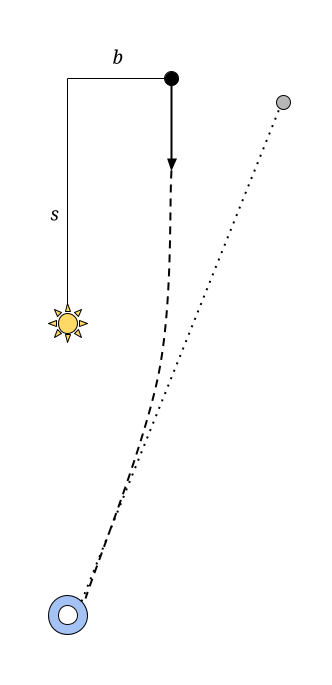
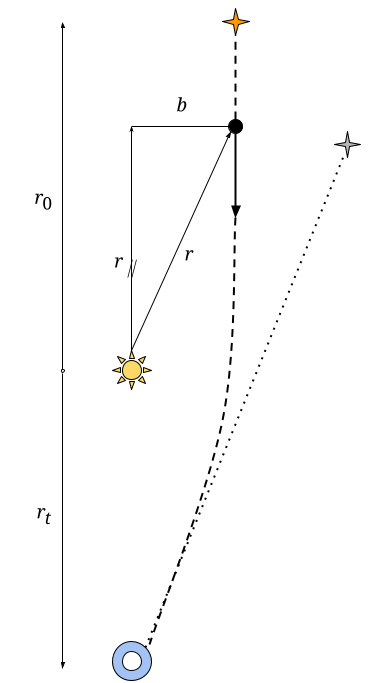
done

diff --git a/_posts/2024-04-01-eclipse-posting-eddington.md b/_posts/2024-04-01-eclipse-posting-eddington.md
@@ -1,0 +1,96 @@
+---
+layout: post
+title:  "The Math behind the Eddington Expedition"
+date:   2024-04-01 00:00:00 -0500
+categories: eclipse
+use_math: true
+tags: eclipse math
+---
+
+*In celebration of the upcoming eclipse crossing North America on April 8th, I'll be posting one eclipse-related post per day. Today's post is about the 1919 Eddington Expedition and the math behind the theoretical light deflections that were being measured.*
+
+In 1919, English astronomer Sir Arthur Eddington embarked on a journey to the island Príncipe off the west coast of Africa in order to witness a total solar eclipse. His goal? To test a novel theory put forth by a certain German physicist a few years earlier: general relativity.
+
+
+<!--more-->
+
+General relativity predicts that light passing a large mass is deflected due to the way the mass curves spacetime. If you were able to measure the relative positions of stars at night versus the day, you would expect to see differences due to the lensing of the stars’ light as it passes by the sun.
+
+The problem is that you can’t see any stars during the day—the sun’s light drowns everything else out. Except of course during a total solar eclipse, when the moon blocks all light from the sun beyond its faint corona, plunging the part of the Earth in the moon’s shadow into darkness.
+
+The solar eclipse taking place on May 29th, 1919 was a particularly long one, lasting almost 7 minutes at the point of maximum totality; it was visible along a narrow band passing through most of Africa and South America. Furthermore, during totality the sun would pass in front of a particularly bright star cluster—the [Hyades](https://en.wikipedia.org/wiki/Hyades_(star_cluster))—which would allow the expedition to measure the deflection of multiple visible stars.
+
+Eddington organized two expeditions, one to Príncipe and one to the town of [Sobral](https://en.wikipedia.org/wiki/Sobral,_Cear%C3%A1) in Brazil to maximize the chance of getting useful data from the event. The photographic plates obtained by the back-up telescope in Sobral proved the most clear, displaying a deflection corresponding to Einstein’s predictions. Below is an image of one of the Sobral plates; you can see a few of the deflected stars annotated with horizontal lines on either side:
+
+![plate](/e/assets/eddington/plate.jpeg){: .center-image }
+
+The results of the experiment were published at a joint session of the Royal Society and Royal Astronomical Society on November 6th, 1919. There was intense press fanfare surrounding the report, and this experiment is generally credited with launching Einstein—who was well-known only within the physics community at the time—into superstardom.
+
+## Newtonian Deflection
+
+When I first learned about the Eddington expedition I was puzzled by the mention that general relativity predicts an angular deflection of *twice* the magnitude of the deflection under classical physics. Why would light be deflected at all under Newtonian mechanics and how could you calculate the deflection?
+
+I'll explain the derivation in this section—you'll need only knowledge of classical mechanics and a little calculus to follow.
+
+Imagine a particle of light with mass \\(m\\) that is traveling past a much more massive body (the sun) with mass \\(M\\) positioned at the origin. The force that the particle experiences is:
+
+\\[\vec{F} = \frac{GMm}{r^2} \hat{r} = m\vec{a}\\]
+
+(Yes, photons are massless, but Newton didn't know that. Regardless, you can see that \\(m\\) cancels in the above equation, so you can consider the limit of the above scenario as \\(m\\) approaches 0.) Suppose that the perpendicular component of the displacement from the particle to the sun is \\(b\\) and the parallel displacement is \\(r_{\parallel}\\). We’ll assume that \\(b\\) stays approximately the same throughout the path of the particle, but that \\(r_{\parallel}\\) varies.
+
+<svg version="1.1" width="50%" viewBox="0.0 0.0 391.9501312335958 685.6351706036745" fill="none" stroke="none" stroke-linecap="square" stroke-miterlimit="10" xmlns:xlink="http://www.w3.org/1999/xlink" xmlns="http://www.w3.org/2000/svg"><clipPath id="p.0"><path d="m0 0l391.95013 0l0 685.6352l-391.95013 0l0 -685.6352z" clip-rule="nonzero"/></clipPath><g clip-path="url(#p.0)"><path fill="#000000" fill-opacity="0.0" d="m0 0l391.95013 0l0 685.6352l-391.95013 0z" fill-rule="evenodd"/><path fill="#000000" fill-opacity="0.0" d="m97.50656 216.67192l62.551178 0l0 53.00786l-62.551178 0z" fill-rule="evenodd"/><path fill="#000000" d="m121.19406 228.62192l-4.609375 18.046875l-0.78125 0l4.609375 -18.046875l0.78125 0zm-4.0625 0l-4.609375 18.046875l-0.78125 0l4.609375 -18.046875l0.78125 0z" fill-rule="nonzero"/><path fill="#ffd966" d="m151.89764 371.48557l-7.9564514 2.8294983l0 -5.6589966zm-5.7762146 -13.942139l-3.6242676 7.627533l-4.001465 -4.001465zm-13.940323 -5.7743835l2.8294983 7.956421l-5.6589966 0zm-13.942154 5.7743835l7.627556 3.626068l-4.001457 4.001465zm-5.7743835 13.942139l7.956436 -2.8294983l0 5.6589966zm5.7743835 13.940308l3.6260986 -7.625702l4.001457 4.0014343zm13.942154 5.7762146l-2.8294983 -7.956421l5.6589966 0zm13.940323 -5.7762146l-7.6257324 -3.6242676l4.001465 -4.0014343zm-23.798592 -13.940308l0 0c0 -5.44458 4.4136963 -9.858276 9.858269 -9.858276c5.444565 0 9.858261 4.4136963 9.858261 9.858276c0 5.44458 -4.4136963 9.858276 -9.858261 9.858276c-5.4445724 0 -9.858269 -4.4136963 -9.858269 -9.858276z" fill-rule="evenodd"/><path stroke="#000000" stroke-width="1.0" stroke-linejoin="round" stroke-linecap="butt" d="m151.89764 371.48557l-7.9564514 2.8294983l0 -5.6589966zm-5.7762146 -13.942139l-3.6242676 7.627533l-4.001465 -4.001465zm-13.940323 -5.7743835l2.8294983 7.956421l-5.6589966 0zm-13.942154 5.7743835l7.627556 3.626068l-4.001457 4.001465zm-5.7743835 13.942139l7.956436 -2.8294983l0 5.6589966zm5.7743835 13.940308l3.6260986 -7.625702l4.001457 4.0014343zm13.942154 5.7762146l-2.8294983 -7.956421l5.6589966 0zm13.940323 -5.7762146l-7.6257324 -3.6242676l4.001465 -4.0014343zm-23.798592 -13.940308l0 0c0 -5.44458 4.4136963 -9.858276 9.858269 -9.858276c5.444565 0 9.858261 4.4136963 9.858261 9.858276c0 5.44458 -4.4136963 9.858276 -9.858261 9.858276c-5.4445724 0 -9.858269 -4.4136963 -9.858269 -9.858276z" fill-rule="evenodd"/><path fill="#000000" d="m229.44907 126.845146l0 0c0 -3.8442535 3.1163788 -6.9606323 6.9606323 -6.9606323l0 0c1.8460693 0 3.6165314 0.73335266 4.9219055 2.0387192c1.3053741 1.3053741 2.0387268 3.0758362 2.0387268 4.921913l0 0c0 3.844246 -3.116394 6.9606247 -6.9606323 6.9606247l0 0c-3.8442535 0 -6.9606323 -3.1163788 -6.9606323 -6.9606247z" fill-rule="evenodd"/><path stroke="#000000" stroke-width="1.0" stroke-linejoin="round" stroke-linecap="butt" d="m229.44907 126.845146l0 0c0 -3.8442535 3.1163788 -6.9606323 6.9606323 -6.9606323l0 0c1.8460693 0 3.6165314 0.73335266 4.9219055 2.0387192c1.3053741 1.3053741 2.0387268 3.0758362 2.0387268 4.921913l0 0c0 3.844246 -3.116394 6.9606247 -6.9606323 6.9606247l0 0c-3.8442535 0 -6.9606323 -3.1163788 -6.9606323 -6.9606247z" fill-rule="evenodd"/><path fill="#000000" fill-opacity="0.0" d="m236.4097 133.80577l0 85.79527" fill-rule="evenodd"/><path stroke="#000000" stroke-width="2.0" stroke-linejoin="round" stroke-linecap="butt" d="m236.4097 133.80577l0 73.79527" fill-rule="evenodd"/><path fill="#000000" stroke="#000000" stroke-width="2.0" stroke-linecap="butt" d="m233.10623 207.60104l3.3034668 9.076202l3.3034668 -9.076202z" fill-rule="evenodd"/><path fill="#a4c2f4" d="m112.46457 663.6588l0 0c0 -10.88916 8.827393 -19.716553 19.716537 -19.716553l0 0c5.229141 0 10.244125 2.0772705 13.941696 5.7748413c3.6975708 3.6975708 5.7748413 8.712524 5.7748413 13.941711l0 0c0 10.889099 -8.827393 19.716492 -19.716537 19.716492l0 0c-10.889145 0 -19.716537 -8.827393 -19.716537 -19.716492zm9.858269 0l0 0c0 5.44458 4.4136963 9.858276 9.858269 9.858276c5.444565 0 9.858261 -4.4136963 9.858261 -9.858276c0 -5.44458 -4.4136963 -9.858276 -9.858261 -9.858276l0 0c-5.4445724 0 -9.858269 4.4136963 -9.858269 9.858276z" fill-rule="evenodd"/><path stroke="#000000" stroke-width="1.0" stroke-linejoin="round" stroke-linecap="butt" d="m112.46457 663.6588l0 0c0 -10.88916 8.827393 -19.716553 19.716537 -19.716553l0 0c5.229141 0 10.244125 2.0772705 13.941696 5.7748413c3.6975708 3.6975708 5.7748413 8.712524 5.7748413 13.941711l0 0c0 10.889099 -8.827393 19.716492 -19.716537 19.716492l0 0c-10.889145 0 -19.716537 -8.827393 -19.716537 -19.716492zm9.858269 0l0 0c0 5.44458 4.4136963 9.858276 9.858269 9.858276c5.444565 0 9.858261 -4.4136963 9.858261 -9.858276c0 -5.44458 -4.4136963 -9.858276 -9.858261 -9.858276l0 0c-5.4445724 0 -9.858269 4.4136963 -9.858269 9.858276z" fill-rule="evenodd"/><path fill="#000000" fill-opacity="0.0" d="m146.1228 649.7171l198.2362 -492.72443" fill-rule="evenodd"/><path stroke="#000000" stroke-width="2.0" stroke-linejoin="round" stroke-linecap="butt" stroke-dasharray="2.0,6.0" d="m146.1228 649.7171l198.2362 -492.72443" fill-rule="evenodd"/><path fill="#000000" fill-opacity="0.0" d="m236.52231 218.4357c-2.3188934 34.009613 0.57962036 132.56036 -13.913391 204.05774c-14.492996 71.497375 -60.870514 187.43875 -73.04462 224.92648" fill-rule="evenodd"/><path stroke="#000000" stroke-width="2.0" stroke-linejoin="round" stroke-linecap="butt" stroke-dasharray="8.0,6.0" d="m236.52231 218.4357c-2.3188934 34.009613 0.57962036 132.56036 -13.913391 204.05774c-14.492996 71.497375 -60.870514 187.43875 -73.04462 224.92648" fill-rule="evenodd"/><path fill="#000000" fill-opacity="0.0" d="m132.1811 351.76904l0 -225.25986" fill-rule="evenodd"/><path stroke="#000000" stroke-width="1.0" stroke-linejoin="round" stroke-linecap="butt" d="m132.1811 351.76904l0 -221.83278" fill-rule="evenodd"/><path fill="#000000" stroke="#000000" stroke-width="1.0" stroke-linecap="butt" d="m132.1811 129.93628l1.1245728 1.1245728l-1.1245728 -3.0897598l-1.124588 3.0897598z" fill-rule="evenodd"/><path fill="#000000" fill-opacity="0.0" d="m89.50656 209.62204l26.677162 0l0 42.015762l-26.677162 0z" fill-rule="evenodd"/><path fill="#000000" d="m105.78781 229.05766q0 -1.46875 -0.75 -1.46875q-0.859375 0 -1.84375 1.703125q-0.96875 1.703125 -1.421875 3.859375l-0.703125 3.390625l-1.75 0l1.578125 -7.5q0.109375 -0.515625 0.109375 -0.828125q0 -0.890625 -1.484375 -0.890625l-0.15625 0l0.171875 -0.78125l3.296875 0l-0.390625 2.6875l0.1875 0q0.75 -1.671875 1.46875 -2.265625q0.734375 -0.609375 1.703125 -0.609375q1.53125 0 1.53125 1.28125q0 1.421875 -1.546875 1.421875z" fill-rule="nonzero"/><path fill="#000000" fill-opacity="0.0" d="m229.44907 126.845146l-97.6378 0" fill-rule="evenodd"/><path stroke="#000000" stroke-width="1.0" stroke-linejoin="round" stroke-linecap="butt" d="m229.44907 126.845146l-97.6378 0" fill-rule="evenodd"/><path fill="#000000" fill-opacity="0.0" d="m168.04724 84.8294l26.67717 0l0 42.015747l-26.67717 0z" fill-rule="evenodd"/><path fill="#000000" d="m178.98474 111.26502l-0.828125 0.53125l-0.609375 0l2.46875 -11.578125q0.171875 -0.765625 0.171875 -0.984375q0 -0.875 -1.3125 -0.875l-0.15625 0l0.171875 -0.78125l3.53125 0l-0.890625 4.1875q-0.1875 0.90625 -0.671875 2.46875l0.09375 0q1.375 -2.671875 3.40625 -2.671875q1.109375 0 1.734375 0.859375q0.640625 0.859375 0.640625 2.515625q0 2.59375 -1.609375 4.796875q-1.59375 2.203125 -3.953125 2.203125q-1.34375 0 -2.1875 -0.671875zm0.65625 -0.84375q0.5625 0.671875 1.453125 0.671875q1.625 0 2.671875 -2.0625q1.0625 -2.078125 1.0625 -4.109375q0 -2.1875 -1.171875 -2.1875q-1.03125 0 -2.0 1.421875q-0.96875 1.421875 -1.21875 2.578125l-0.796875 3.6875z" fill-rule="nonzero"/><path fill="#000000" fill-opacity="0.0" d="m132.1811 351.76904l99.30708 -220.00002" fill-rule="evenodd"/><path stroke="#000000" stroke-width="1.0" stroke-linejoin="round" stroke-linecap="butt" d="m132.1811 351.76904l96.83856 -214.53134" fill-rule="evenodd"/><path fill="#000000" stroke="#000000" stroke-width="1.0" stroke-linecap="butt" d="m230.52512 137.91725l0.36161804 -4.8157806l-3.3725433 3.456665z" fill-rule="evenodd"/><path fill="#000000" fill-opacity="0.0" d="m176.05774 234.43832l26.67717 0l0 42.015747l-26.67717 0z" fill-rule="evenodd"/><path fill="#000000" d="m192.33899 253.87395q0 -1.46875 -0.75 -1.46875q-0.859375 0 -1.84375 1.703125q-0.96875 1.703125 -1.421875 3.8593597l-0.703125 3.390625l-1.75 0l1.578125 -7.4999847q0.109375 -0.515625 0.109375 -0.828125q0 -0.890625 -1.484375 -0.890625l-0.15625 0l0.171875 -0.78125l3.296875 0l-0.390625 2.6875l0.1875 0q0.75 -1.671875 1.46875 -2.265625q0.734375 -0.609375 1.703125 -0.609375q1.53125 0 1.53125 1.28125q0 1.421875 -1.546875 1.421875z" fill-rule="nonzero"/><path fill="#ff9900" d="m223.07014 21.91601l10.980621 -2.3579502l2.357956 -10.980632l2.357956 10.980632l10.980621 2.3579502l-10.980621 2.3579502l-2.357956 10.980633l-2.357956 -10.980633z" fill-rule="evenodd"/><path stroke="#000000" stroke-width="1.0" stroke-linejoin="round" stroke-linecap="butt" d="m223.07014 21.91601l10.980621 -2.3579502l2.357956 -10.980632l2.357956 10.980632l10.980621 2.3579502l-10.980621 2.3579502l-2.357956 10.980633l-2.357956 -10.980633z" fill-rule="evenodd"/><path fill="#000000" fill-opacity="0.0" d="m236.4097 119.884514l0 -84.62992" fill-rule="evenodd"/><path stroke="#000000" stroke-width="2.0" stroke-linejoin="round" stroke-linecap="butt" stroke-dasharray="8.0,6.0" d="m236.4097 119.884514l0 -84.62992" fill-rule="evenodd"/><path fill="#b7b7b7" d="m335.12524 145.1076l10.980652 -2.3579407l2.3579407 -10.980637l2.3579407 10.980637l10.980652 2.3579407l-10.980652 2.357956l-2.3579407 10.980637l-2.3579407 -10.980637z" fill-rule="evenodd"/><path stroke="#000000" stroke-width="1.0" stroke-linejoin="round" stroke-linecap="butt" d="m335.12524 145.1076l10.980652 -2.3579407l2.3579407 -10.980637l2.3579407 10.980637l10.980652 2.3579407l-10.980652 2.357956l-2.3579407 10.980637l-2.3579407 -10.980637z" fill-rule="evenodd"/><path fill="#000000" fill-opacity="0.0" d="m63.07014 21.91601l0 352.37796" fill-rule="evenodd"/><path stroke="#000000" stroke-width="1.0" stroke-linejoin="round" stroke-linecap="butt" d="m63.070137 27.91601l0 342.58795" fill-rule="evenodd"/><path fill="#000000" stroke="#000000" stroke-width="1.0" stroke-linecap="butt" d="m64.72187 27.91601l-1.6517334 -4.5380974l-1.6517296 4.5380974z" fill-rule="evenodd"/><path stroke="#000000" stroke-width="1.0" stroke-linecap="butt" d="m63.070137 373.79398c-0.9085083 0 -1.6450005 -0.73651123 -1.6450005 -1.6450195c0 -0.9085083 0.73649216 -1.644989 1.6450005 -1.644989c0.9085083 0 1.6450043 0.7364807 1.6450043 1.644989c0 0.9085083 -0.736496 1.6450195 -1.6450043 1.6450195z" fill-rule="nonzero"/><path fill="#000000" fill-opacity="0.0" d="m62.93348 375.39804l0 295.9055" fill-rule="evenodd"/><path stroke="#000000" stroke-width="1.0" stroke-linejoin="round" stroke-linecap="butt" d="m62.93348 375.39804l0 289.90555" fill-rule="evenodd"/><path fill="#000000" stroke="#000000" stroke-width="1.0" stroke-linecap="butt" d="m61.28175 665.3036l1.6517296 4.538086l1.6517334 -4.538086z" fill-rule="evenodd"/><path fill="#000000" fill-opacity="0.0" d="m33.50656 184.67192l62.551178 0l0 53.007874l-62.551178 0z" fill-rule="evenodd"/><path fill="#000000" d="m51.41281 204.1088q0 1.4375 -0.25 2.609375q-0.25 1.171875 -0.765625 2.015625q-0.5 0.828125 -1.265625 1.296875q-0.75 0.453125 -1.78125 0.453125q-1.0625 0 -1.84375 -0.453125q-0.765625 -0.46875 -1.265625 -1.296875q-0.484375 -0.84375 -0.71875 -2.015625q-0.234375 -1.1875 -0.234375 -2.625q0 -1.4375 0.234375 -2.609375q0.234375 -1.171875 0.71875 -2.0q0.5 -0.828125 1.28125 -1.265625q0.78125 -0.453125 1.84375 -0.453125q1.015625 0 1.765625 0.453125q0.765625 0.4375 1.265625 1.265625q0.515625 0.828125 0.765625 2.0q0.25 1.171875 0.25 2.625zm-6.328125 0q0 1.28125 0.109375 2.296875q0.125 1.015625 0.390625 1.71875q0.265625 0.6875 0.703125 1.0625q0.4375 0.359375 1.0625 0.359375q0.640625 0 1.0625 -0.359375q0.4375 -0.375 0.703125 -1.0625q0.265625 -0.703125 0.375 -1.71875q0.125 -1.015625 0.125 -2.296875q0 -1.28125 -0.125 -2.28125q-0.109375 -1.015625 -0.375 -1.703125q-0.265625 -0.703125 -0.703125 -1.0625q-0.421875 -0.359375 -1.046875 -0.359375q-0.625 0 -1.0625 0.359375q-0.4375 0.359375 -0.71875 1.0625q-0.265625 0.6875 -0.390625 1.703125q-0.109375 1.0 -0.109375 2.28125z" fill-rule="nonzero"/><path fill="#000000" fill-opacity="0.0" d="m25.506561 177.62204l26.677166 0l0 42.015762l-26.677166 0z" fill-rule="evenodd"/><path fill="#000000" d="m41.78781 197.05766q0 -1.46875 -0.75 -1.46875q-0.859375 0 -1.84375 1.703125q-0.96875 1.703125 -1.421875 3.859375l-0.703125 3.390625l-1.75 0l1.578125 -7.5q0.109375 -0.515625 0.109375 -0.828125q0 -0.890625 -1.484375 -0.890625l-0.15625 0l0.171875 -0.78125l3.296875 0l-0.390625 2.6875l0.1875 0q0.75 -1.671875 1.46875 -2.265625q0.734375 -0.609375 1.703125 -0.609375q1.53125 0 1.53125 1.28125q0 1.421875 -1.546875 1.421875z" fill-rule="nonzero"/><path fill="#000000" fill-opacity="0.0" d="m35.695538 500.3727l62.55118 0l0 53.007843l-62.55118 0z" fill-rule="evenodd"/><path fill="#000000" d="m49.914288 524.7158l0.296875 0.640625q-1.171875 0.828125 -2.34375 0.828125q-1.890625 0 -1.890625 -2.03125q0 -0.640625 0.171875 -1.453125l1.0625 -4.984375l-1.328125 0l0.171875 -0.703125q1.6875 0 2.640625 -2.421875l0.796875 0l-0.453125 2.125l2.109375 0l-0.21875 1.0l-2.09375 0l-1.046875 4.9375q-0.21875 1.0 -0.21875 1.484375q0 0.953125 0.921875 0.953125q0.703125 0 1.421875 -0.375z" fill-rule="nonzero"/><path fill="#000000" fill-opacity="0.0" d="m27.695538 493.32285l26.677166 0l0 42.015717l-26.677166 0z" fill-rule="evenodd"/><path fill="#000000" d="m43.976788 512.7585q0 -1.4687805 -0.75 -1.4687805q-0.859375 0 -1.84375 1.7031555q-0.96875 1.703125 -1.421875 3.859375l-0.703125 3.390625l-1.75 0l1.578125 -7.5q0.109375 -0.515625 0.109375 -0.8281555q0 -0.890625 -1.484375 -0.890625l-0.15625 0l0.171875 -0.78125l3.296875 0l-0.390625 2.6875305l0.1875 0q0.75 -1.6719055 1.46875 -2.2656555q0.734375 -0.609375 1.703125 -0.609375q1.53125 0 1.53125 1.28125q0 1.4219055 -1.546875 1.4219055z" fill-rule="nonzero"/></g></svg>
+
+By the Pythagorean theorem \\(r^2 = r_{\parallel}^2 + b^2\\). We’ll further assume that \\(dr_{\parallel} = cdt\\) where \\(c\\) is the speed of light—in other words the particle moves at an unchanging speed \\(c\\) along the vector parallel to the sun. The change in speed of the particle along the perpendicular component is:
+
+\\[\Delta v_{\perp} = \int_{0}^{t'} \frac{GM}{b^2 + r_{\parallel}^2}dt = \int_{-r_0}^{r_{t'}} \frac{GM}{c(b^2 + r_{\parallel}^2)} dr_{\parallel}\\]
+
+Simplifying further:
+
+\\[\frac{GM}{b^2 c} \int_{--r_0}^{r_{t'}} \frac{dr_{\parallel}}{1 + (r_{\parallel}/b)^2} = \frac{GM}{b^2 c} \int_{-r_0/b}^{r_{t'}/b} \frac{bdu}{1 + u^2}\\]
+
+(note the \\(u\\)-substitution in the final step above). Now, recall that:
+
+\\[\int \frac{1}{1+x^2} = \tan^{-1} x\\]
+
+So:
+
+\\[\int_{-\infty}^{r_{t'}/b} \frac{dx}{1 + x^2} = \tan^{-1}(x) \Bigg\|_{-r_0/b}^{r_t/b} \\]
+
+Since \\(r_0\\)—the distance from the star to the sun—and \\(r_{t'}\\)—the distance from the earth to the sun—are so much more massive than \\(b\\) (which is some small multiple of sun's radius since we're picking stars that are visually near the eclipsed sun), we can approximate this as:
+
+\\[ \tan^{-1}(x) \Bigg\|_{-\infty}^{\infty} = 2 \\]
+
+
+Thus:
+
+\\[\Delta v_{\perp} =  \frac{2GM}{bc}\\]
+
+So the velocity vector goes from:
+
+\\[\langle 0,  c \rangle \rightarrow  \left \langle \frac{2GM}{bc}, c \right \rangle\\]
+
+The deflection angle relative to the starting trajectory is the arc-tangent of the ratio of the final velocity components:
+
+\\[\Delta \theta = \tan^{-1} \frac{2GM}{bc^2} \approx \frac{2GM}{bc^2} \\]
+
+## General Relativistic Deflection
+
+Under general relativity, light travels along *geodesics*—essentially “straight lines” in spacetime. Of course, spacetime itself can be curved by massive objects. The curvature is precisely defined by [Einstein’s field equations](https://en.wikipedia.org/wiki/Einstein_field_equations), but exact solutions are difficult to obtain outside of simplifying assumptions.
+
+One such simplification is to consider only the influence one large mass \\(M\\). Photons in this scenario follow the [Schwarzschild geodesics](https://en.wikipedia.org/wiki/Schwarzschild_geodesics).
+
+If you use the Schwarzschild solution to Einstein’s field equations to calculate the deflection (see [this video](https://www.youtube.com/watch?v=MxWATpSGEgY) for the calculation) you produce:
+
+\\[\Delta \theta = \frac{4 GM}{bc^2}\\]
+
+In other words the deflection under general relativity is exactly twice as under classical mechanics.
+
+If you [carry out the calculations](https://www.wolframalpha.com/input?i=%28%284+*+G+*+%28mass+of+sun%29%29+%2F+%28%28speed+of+light%29%5E2+*+%28radius+of+sun%29%29%29+radians+to+arcseconds) for a star positioned right on the edge of the sun (in other words, setting \\(b\\) to the sun’s radius) you’ll get a deflection of 0.876 arc-seconds under Newtonian physics and a deflection of 1.75 arc-seconds under general relativity. This is a difference of about 2.5 ten thousandths of a degree—it’s still incredible to me that Eddington’s team was able to measure such a small arc, but measure it they did: the observations at Sobral resulted in a calculated deflection of 1.94 ± 0.12 arc-seconds—close enough to 1.75 to validate general relativity.
+
+There were [other tests](https://en.wikipedia.org/wiki/Tests_of_general_relativity) of the theory that were carried out (most notably, general relativity correctly explained the deviation in the precession of Mercury), but the Eddington experiment was seen as the first major confirmation—and it was all thanks to a total solar eclipse.
+
+## Further Reading
+
+* Eddington’s [original report](https://zenodo.org/records/1432106) to the Royal Society. It’s fascinating, and surprisingly easy to understand!
+* This [Vox video](https://www.youtube.com/watch?v=HLxvq_M4218), from which I first learned about the experiment.
+* This [Guardian article](https://www.theguardian.com/science/2019/may/12/100-years-on-eclipse-1919-picture-that-changed-universe-arthur-eddington-einstein-theory-gravity), which includes more details about the expedition itself.
